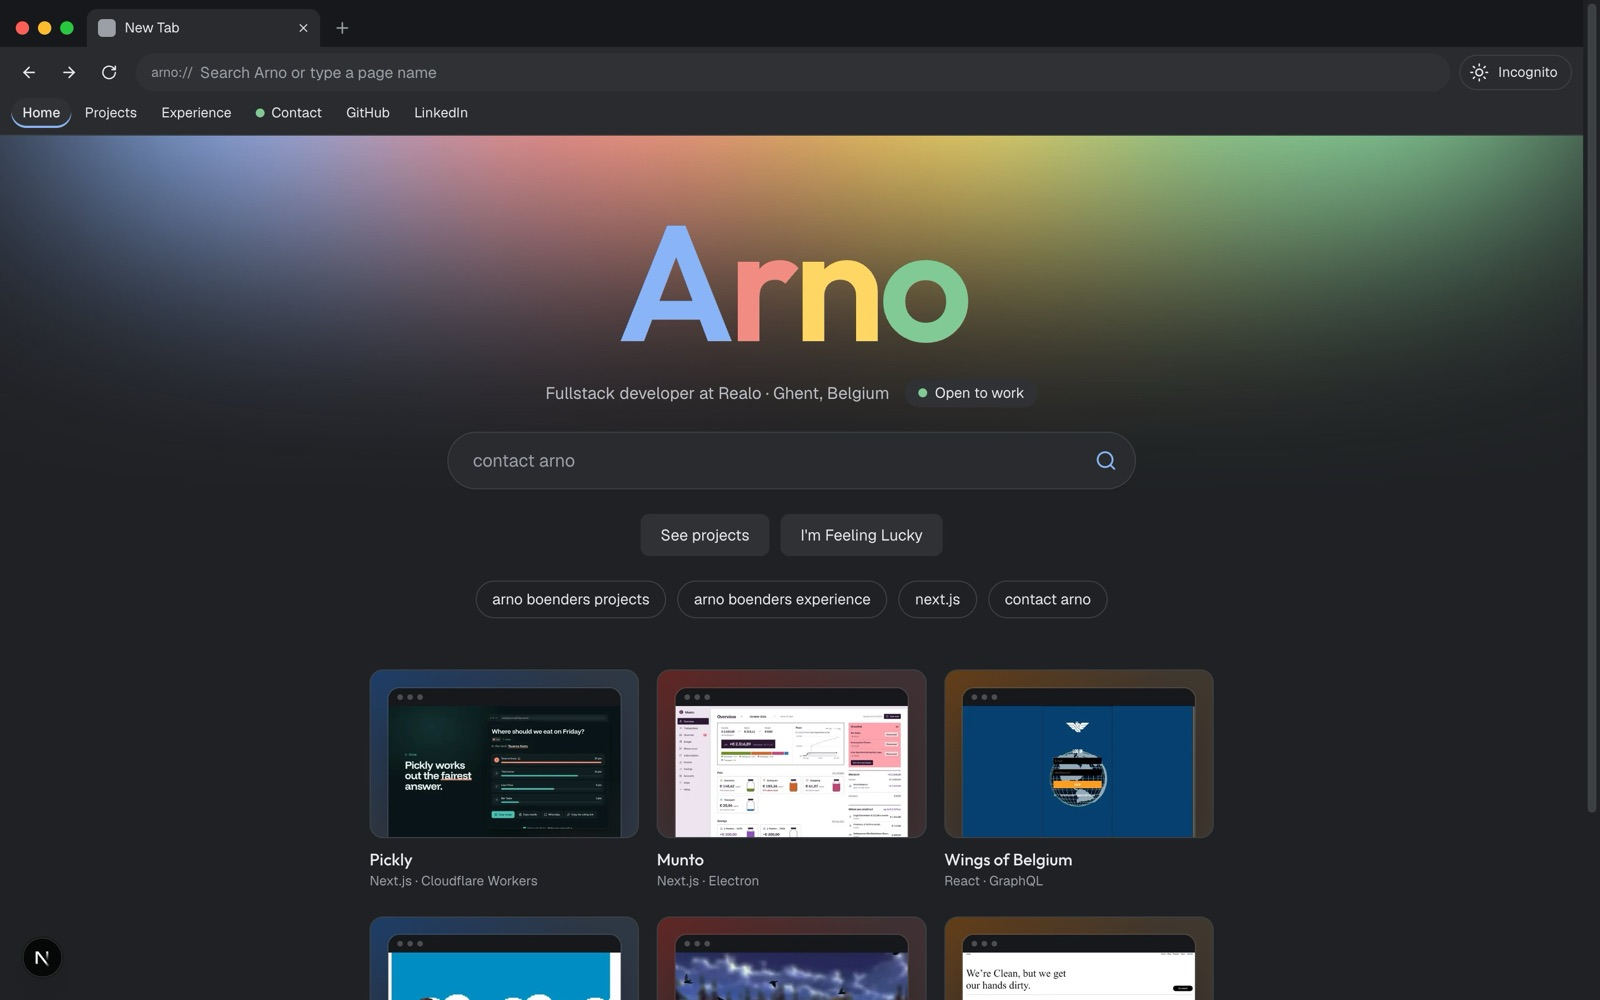
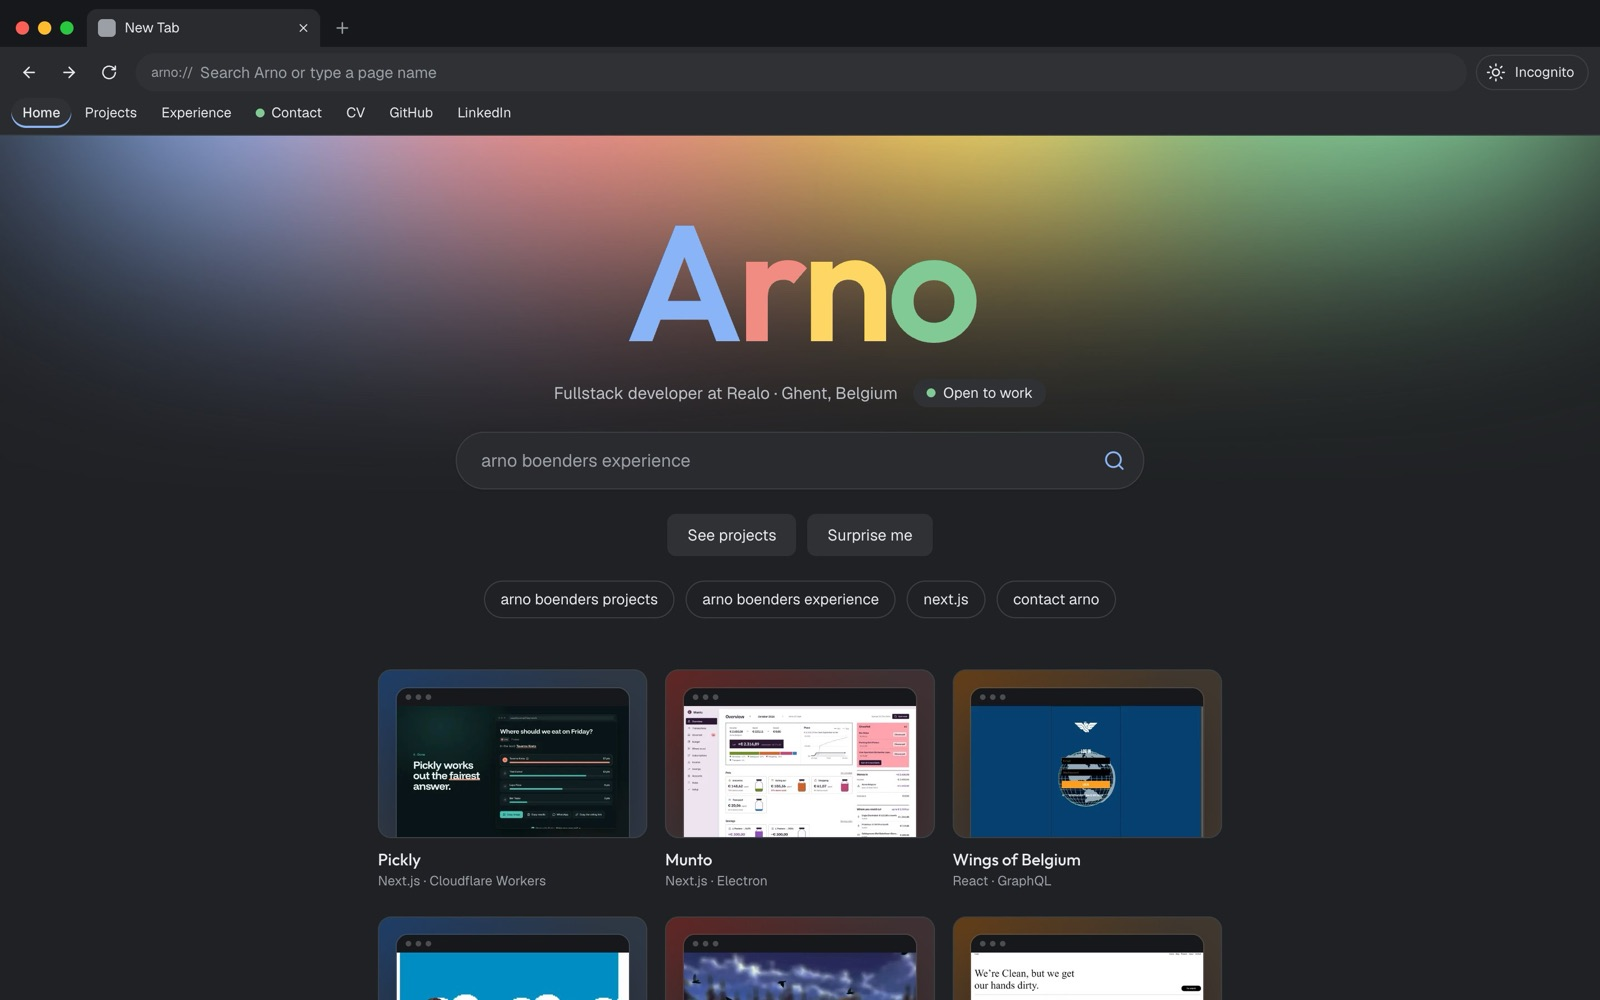
🔒 Only restore tabs that point at this site's own pages
Tabs saved in the browser session are checked before being reopened, and
the Chrome Portfolio screenshot now shows the current landing page.

diff --git a/src/components/BrowserFrame.tsx b/src/components/BrowserFrame.tsx
@@ -59,7 +59,9 @@ export default function BrowserFrame({ children }: { children: React.ReactNode }
     useEffect(() => {
         try {
             const saved = JSON.parse(sessionStorage.getItem(STORAGE_KEY) ?? 'null') as Win | null;
-            if (saved?.tabs?.length && saved.tabs.some((t) => t.id === saved.activeId)) setWin(saved);
+            // Only ever restore addresses of this site's own pages.
+            const own = (t: Tab) => typeof t?.id === 'number' && typeof t?.href === 'string' && /^\/(?!\/)/.test(t.href);
+            if (saved?.tabs?.length && saved.tabs.every(own) && saved.tabs.some((t) => t.id === saved.activeId)) setWin(saved);
         } catch { }
         restored.current = true;
     }, []);
